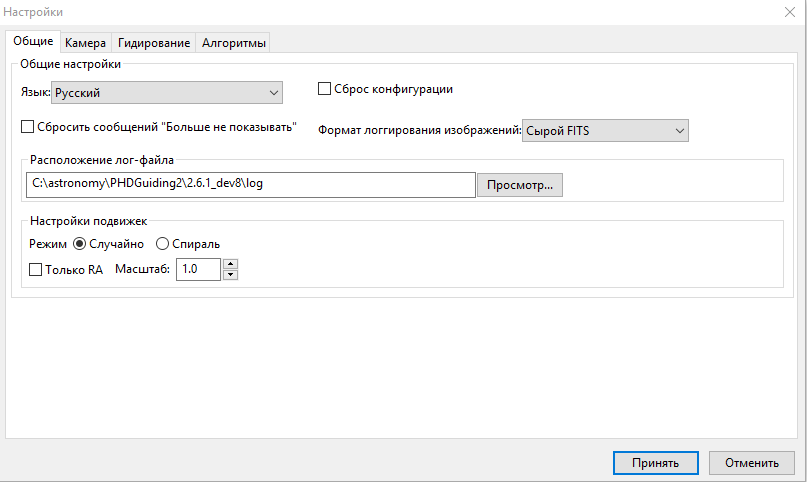
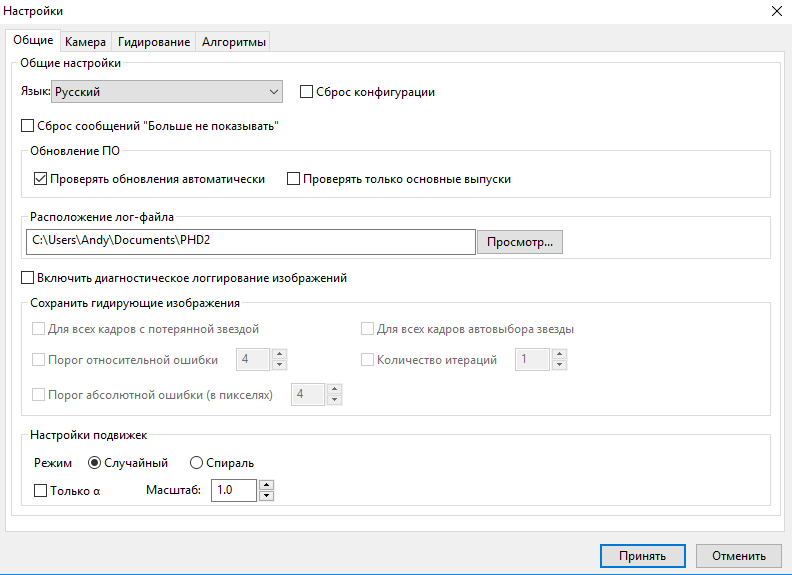
Update Russian help.

diff --git a/locale/ru_RU/help/Advanced_settings.htm b/locale/ru_RU/help/Advanced_settings.htm
@@ -38,28 +38,93 @@
     <ul>
       <li>'<a name="Language"></a>Язык' - определяет язык, используемый
         в <span style="font-style: italic;">PHD2</span>.
-        &nbsp;Изменение языка обычно требует перезагрузки
-        программы/li&gt; </li>
+        &nbsp;Изменение языка обычно требует перезагрузки программы </li>
       <li>'<a name="Reset_Configuration"></a>Сброс конфигурации' -
         сбрасывает все настройки к их начальным на момент установки <span
           style="font-style: italic;">PHD2</span> значениям</li>
       <li>'<a name="Reset_Dont_Ask"></a>Сброс сообщений "Больше не
         показывать"' - разрешает вывод предупредительных сообщений если
         они были запрещены ранее</li>
+      <li>'<a name="Check_for_updates">Обновление ПО'</a></li>
+      <ul>
+        <li><a name="Automatically_check_for_updates"></a>Проверять
+          обновления автоматически - позволить <span style="font-style:
+            italic;">PHD2</span> автоматически проверять обновления при
+          запуске программы</li>
+        <li><a name="Only_check_for_major_releases"></a>Проверять только
+          основные выпуски - определяет, учитывать ли разработческие
+          сборки при проверке обновлений</li>
+      </ul>
+      Подробнее см. в разделе <a href="Tools.htm#Software_Update">Обновление
+
+
+        ПО</a>.
       <li>'<a name="Image_format"></a>Формат логгирования изображений' -
         задаёт формат файлов&nbsp;при логгировании звёздных изображений</li>
-      <li>'<a name="Dither_RA_only"></a>Делать подвижки только по RA' -
-        для использующего сервер <span style="font-style: italic;">PHD2</span>
-        внешнего приложения разрешает подвижки только по оси прямого
-        восхождения</li>
-      <li>'<a name="Dither_scale"></a>Масштаб подвижек' - управляет
-        величиной подвижек&nbsp;</li>
       <li>'<a name="Log_File_Location"></a>Расположение лог-файла' -
         определяет папку, где будут храниться лог-файлы гидирования и
         отладки PHD2.</li>
+      <li><a name="Image_Logging"></a>'Включить диагностическое
+        логгирование изображений' - используется главным образом для
+        поддержки продукта и диагностирования проблем с определением
+        звёзд и измерениями, но также может применяться для просмотра
+        гидирующих изображений и с другими целями.&nbsp; Полученные при
+        гидировании кадры сохраняются в формате FITs согласно заданным
+        фильтрам в подпапках папки логгирования, где время и дата съёмки
+        являются частью имени подпапки.&nbsp; Имена файлов содержат
+        время съёмки и причину сохранения кадра.&nbsp; В заголовке файла
+        формата FITs содержится полезная информация, такая как время
+        экспозиции.&nbsp; Поскольку логи используются преимущественно
+        при решении возникших проблем, они автоматически удаляются через
+        30 дней.&nbsp; Чтобы их сохранить, нужно переименовать папки или
+        перенести их в другое место.&nbsp; При логгировании по
+        наступлении одного из "событий", например, потери звезды или
+        серьёзных ошибок, будет сохранён ряд изображений перед и после
+        наступления этого события. Ниже описаны события и типы фильтров:</li>
+      <ul>
+        <li>'Для всех кадров с потерянной звездой' - сохраняет все
+          изображения для событий, связанных с потерей звезды, несмотря
+          от того, чем она вызвана (низкий уровень сигнал/шум, изменение
+          яркости и прочее)</li>
+        <li>'Для всех кадров автовыбора звезды' - записывает кадры,
+          использовавшиемся для автоматического выбора звезды независимо
+          от результата, то есть даже если выбор не удался.</li>
+        <li>'Когда превышен порог относительной ошибки' - записывает
+          изображения при отклонении звезды на величину, большую средней
+          ошибки.&nbsp; Например, если среднеквадратичная ошибка равна
+          0.5 пикселей, а ошибка текущего кадра составляет 1.5 пикселя,
+          то средняя ошибка равна 3.</li>
+        <li>'Когда превышен порог абсолютной ошибки' - записывает
+          изображения при отклонении звезды более заданного количества
+          пикселей.</li>
+        <li>'Пока не достигнуто заданное колиество итераций' &nbsp;-
+          записывает изображения до тех пор, пока не превысится заданное
+          число итераций.&nbsp; После этого счётчик будет сброшен в
+          ноль.</li>
+      </ul>
+      <li><a name="Dither_Settings"></a>Настройки подвижек</li>
+      <ul>
+        <li><a name="Dither_Random_Mode"></a>'Случайный режим' - для
+          определения величины и направления подвижки используется
+          генератор случайных чисел, с учётом ограничений, налагаемых
+          режимами подвижек только по прямому восхождению или при
+          гидировании только по прямому восхождению.</li>
+        <li><a name="Dither_Spiral_Mode"></a>'Режим спирали' -
+          спиральные подвижки фиксированной величины по часовой
+          стрелке.&nbsp; Хороший выбор при значительном фиксированном
+          шуме или проблемах с люфтом склонения</li>
+        <li>'<a name="Dither_RA_only"></a>Делать подвижки только по RA'
+          - для использующего сервер <span style="font-style: italic;">PHD2</span>
+          внешнего приложения разрешает подвижки только по оси прямого
+          восхождения</li>
+        <li>'<a name="Dither_scale"></a>Масштаб подвижек' -
+          необязательный параметр, определяющий максимальное ограничение
+          для подвижек. См. <a href="Tools.htm#Dithering_Ops">Операции
+            подвижек</a>&nbsp;</li>
+      </ul>
     </ul>
     <h3><a name="Camera_Tab"></a>Камера</h3>
-    <img style="width: 804px; height: 427px;" alt=""
+    <img style="width: 792px; height: 575px;" alt=""
       src="Advanced_camera.png"><br>
     <br>
     Используются следующие настройки камеры: <br>
@@ -155,6 +220,19 @@
         просто щёлкните где-нибудь за пределами подкадра.</li>
     </ul>
     <span style="font-weight: bold;"><a name="Binning_usage"></a>Использование
+
+
+
+
+
+
+
+
+
+
+
+
+
 
 
 
@@ -307,6 +385,19 @@
         или значительной периодической ошибке прямого восхождения.</li>
       <li>'<a name="Reverse_Dec_output_after_meridian_flip"></a>Инвертировать
 
+
+
+
+
+
+
+
+
+
+
+
+
+
         импульсы по склонению после перекладывания меридиана'
         -&nbsp;указывает <span style="font-style: italic;">PHD2</span>
         что делать с калибровочными данными когда используется функция
@@ -347,6 +438,19 @@
       src="Advanced_calstep_calculator.png"><br>
     <span style="font-size: 10pt; font-family: Arial;"></span><br>
     Чтобы использовать <a name="Calculator_auto-step-size"></a>калькулятор,
+
+
+
+
+
+
+
+
+
+
+
+
+
 
     три верхних поля должны быть корректно заполнены. &nbsp;Если
     фокусное расстояние и размер пикселей камеры уже были введены в
@@ -437,6 +541,19 @@
         придётся это повторить.</li>
     </ul>
     <h4><a name="Declination-Uni-directional_guiding"></a>Однонаправленное
+
+
+
+
+
+
+
+
+
+
+
+
+
 
       гидирование по склонению</h4>
     Как обсуждалось в другом месте, люфт склонения некоторых монтировок
